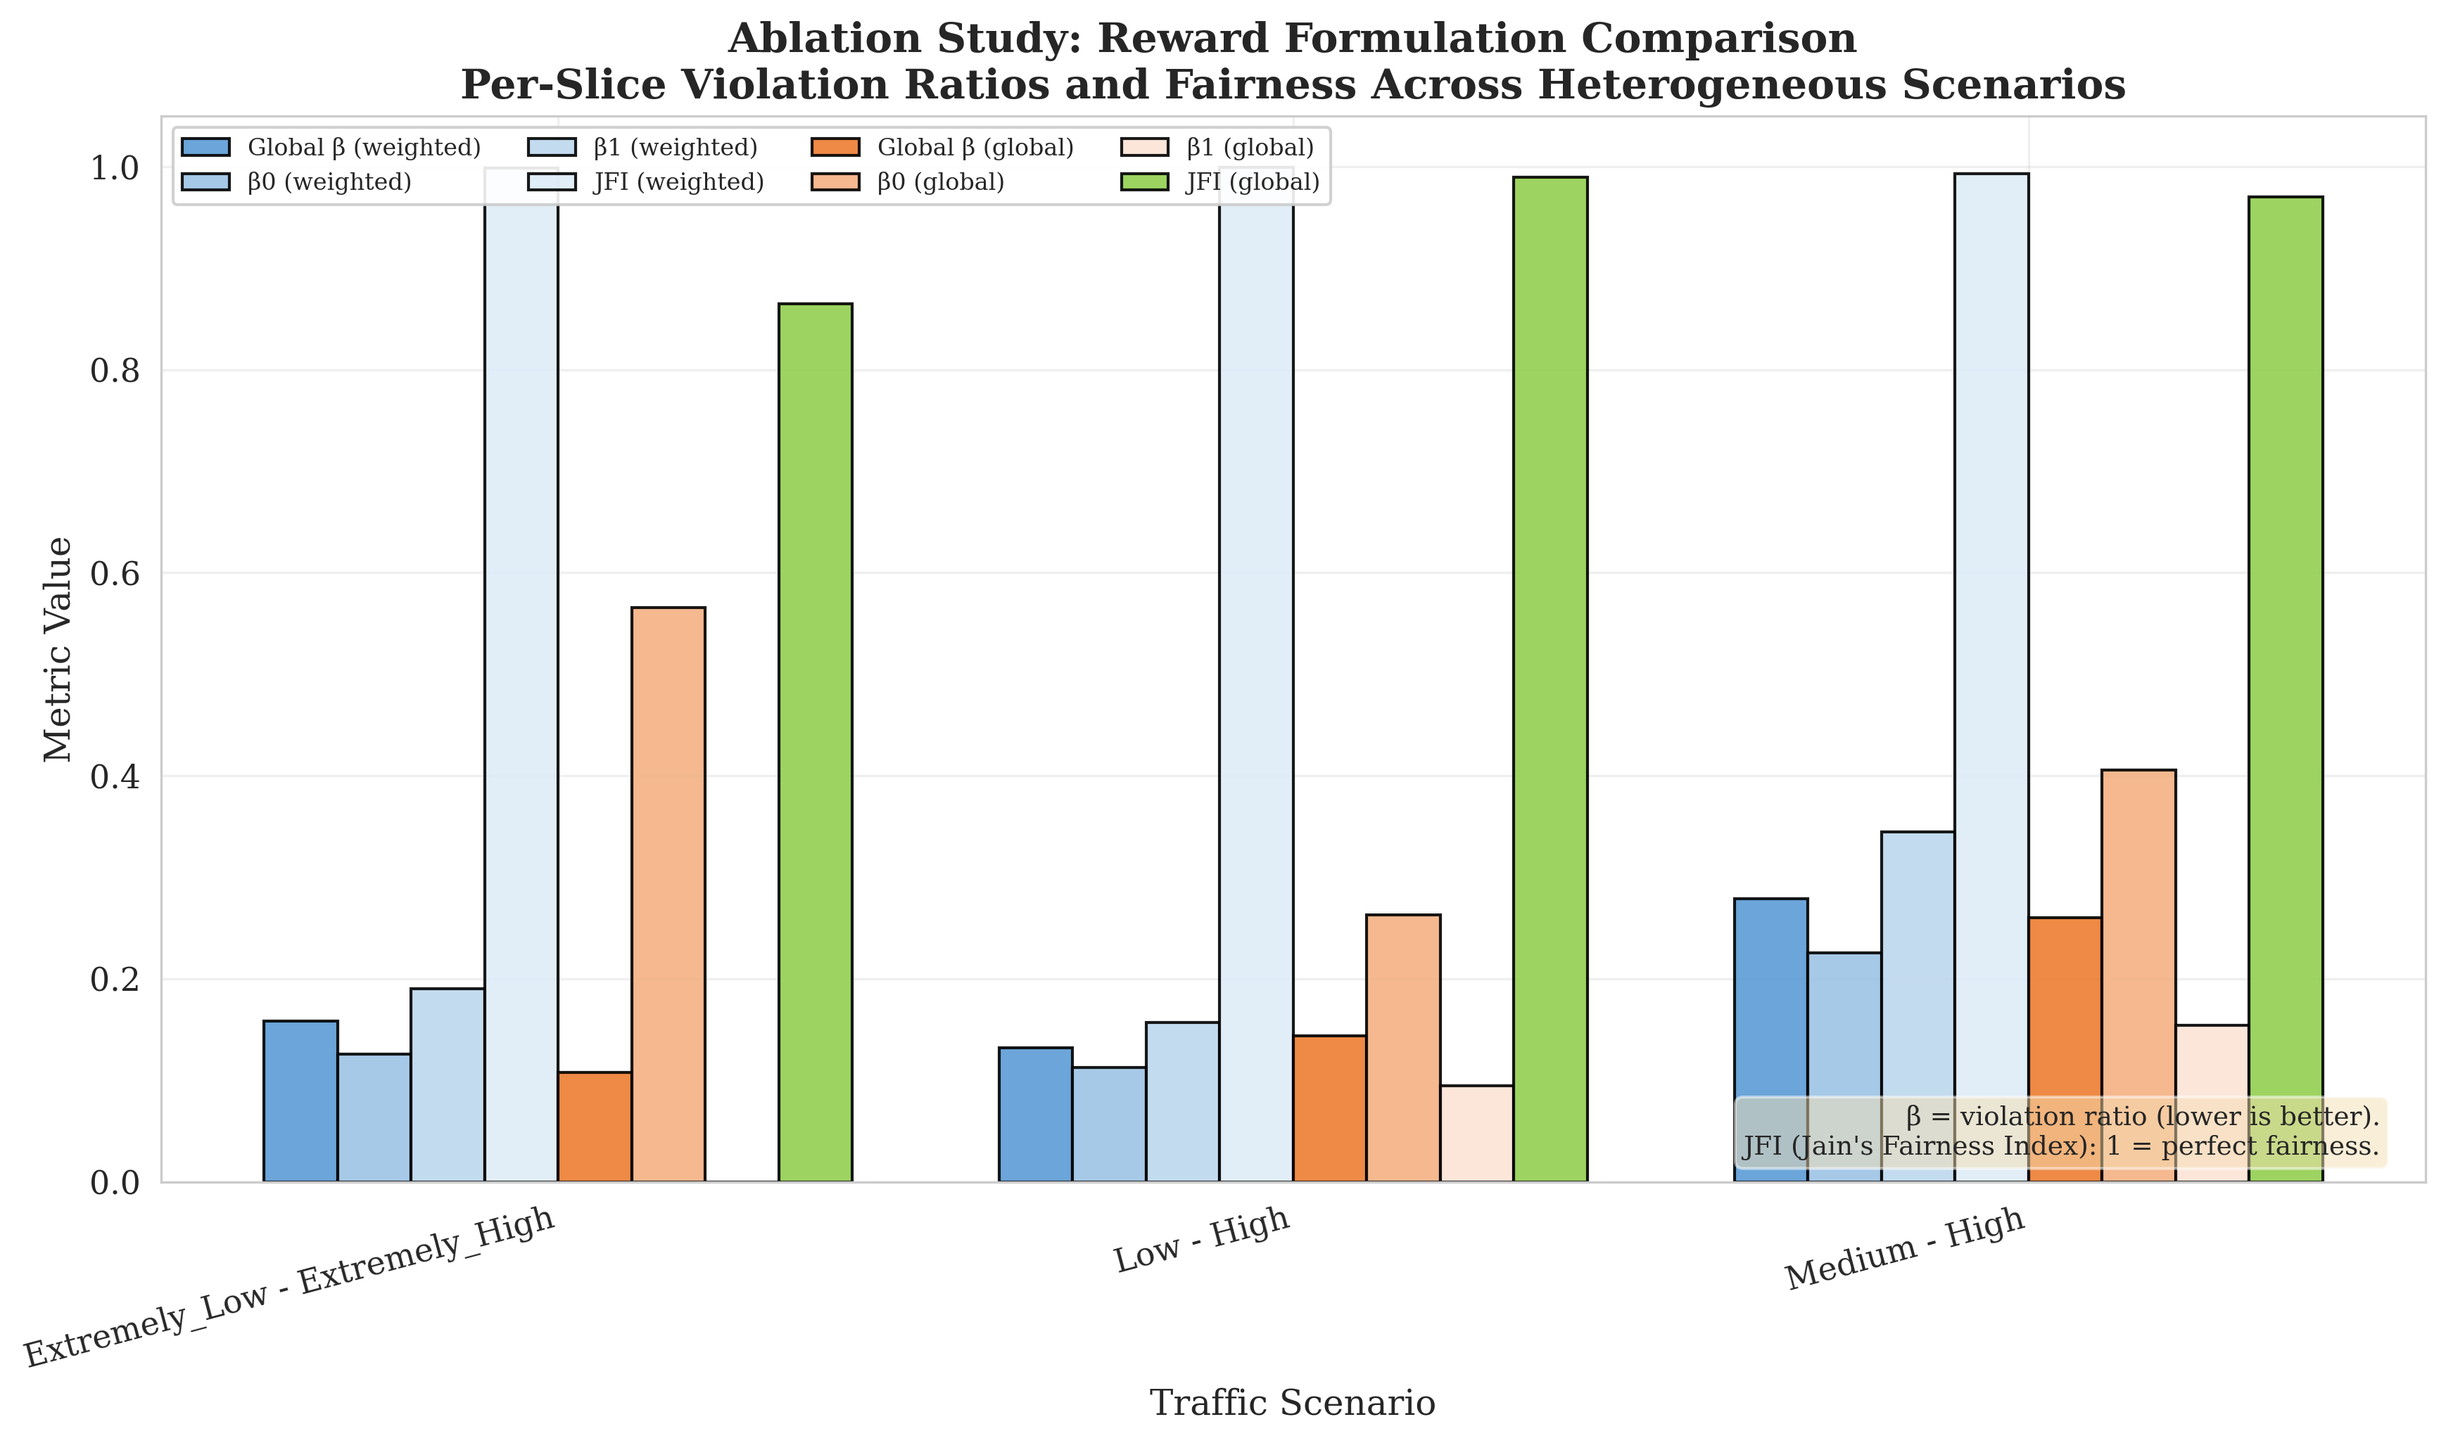
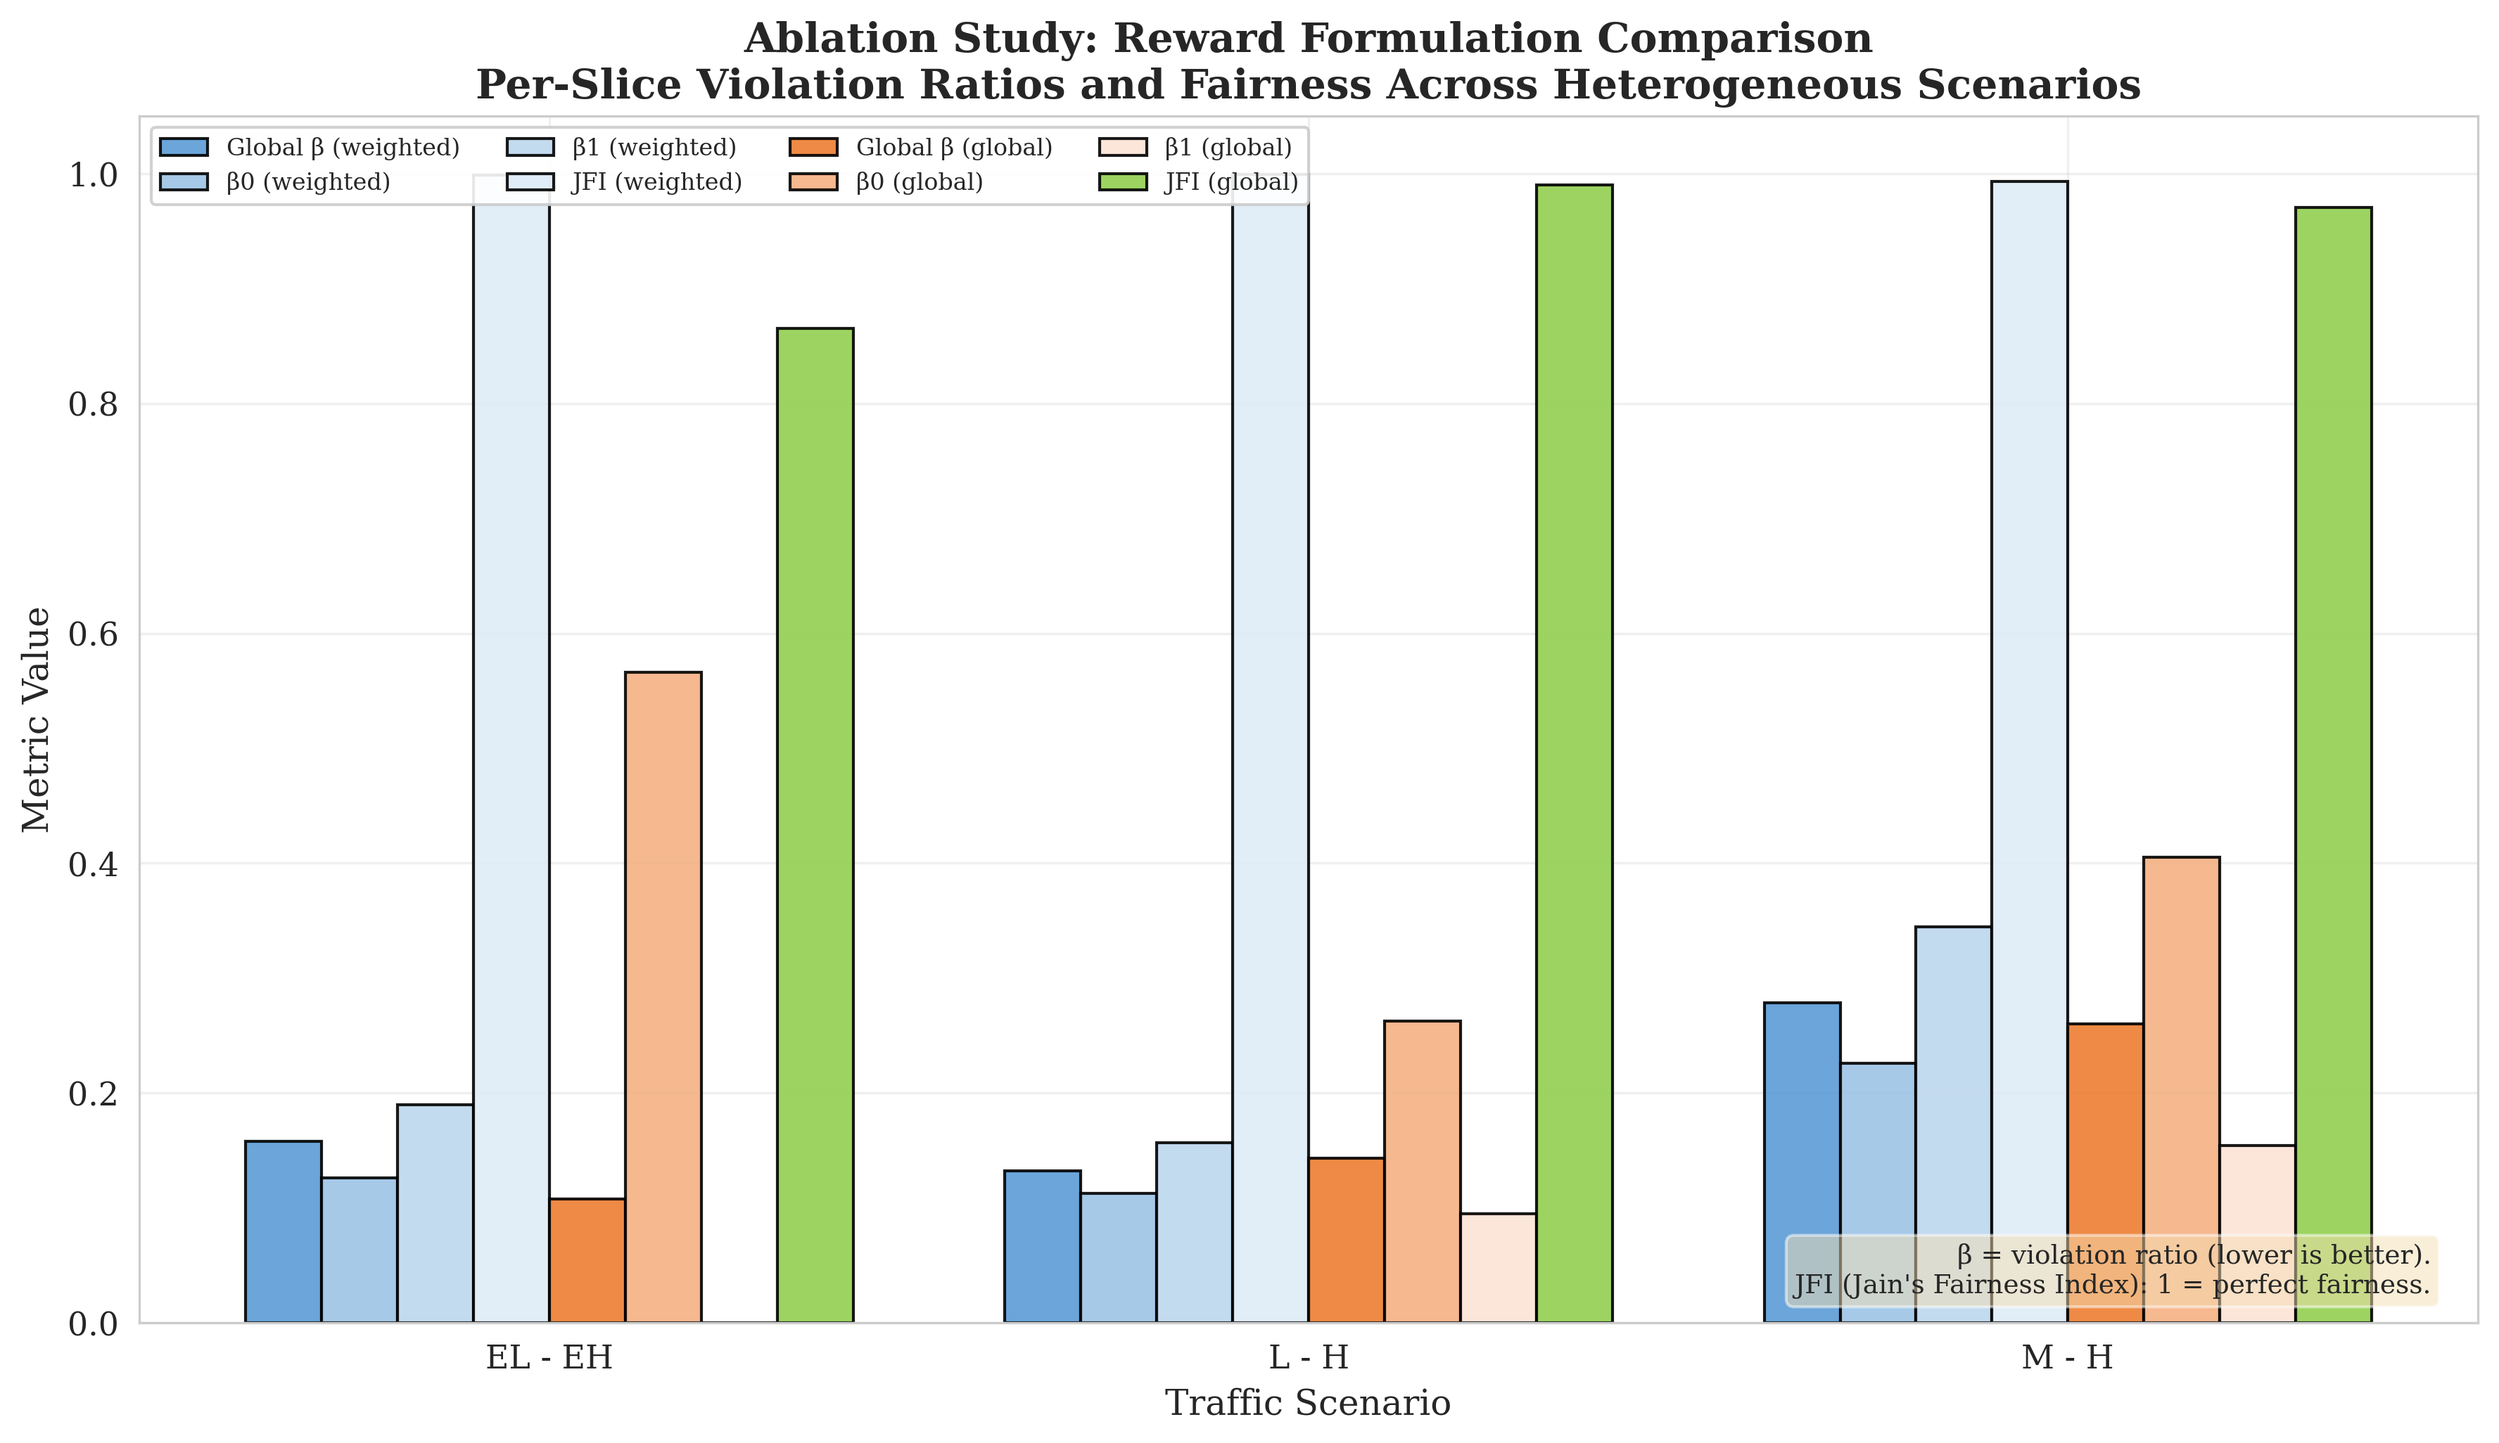
ver3.7

diff --git a/figures_dynamic.py b/figures_dynamic.py
@@ -26,6 +26,7 @@ from plot_style import (
     FIGURE_DPI, FIGURE_FORMAT,
     COLOR_BETA, LABEL_BETA, LABEL_DTI, LABEL_RBS, LABEL_EPISODE,
     abbrev_profile,
+    abbrev_scenario_str,
 )
 
 _PROFILE_NAMES = {
@@ -321,37 +322,67 @@ def _fig5_continuous_beta(data, output_dir, episode, label):
 # ---------------------------------------------------------------------------
 
 def fig_actor_loss_comparison(experiments, output_dir):
-    """Training actor loss comparison: one heterogeneous + one dynamic experiment."""
+    """
+    Training actor loss comparison between two dynamic experiments with
+    different profile pools (e.g. [L,M,H] vs [EL,L,M,H,EH]).
+
+    Falls back to any two experiments with actor loss data if fewer than
+    two dynamic runs are available.
+    """
     print("\n[Figure] Actor Loss Comparison...")
 
+    # Prefer dynamic experiments; pick one per distinct pool size
+    dynamic_with_loss = [
+        e for e in experiments
+        if e['category'] == 'dynamic'
+        and 'episode_actor_loss' in e.get('data', {})
+    ]
+
+    seen_pool_sizes = {}
     to_plot = []
-    for exp in experiments:
-        if exp['category'] == 'static_heterogeneous' and len(to_plot) == 0:
-            if 'episode_actor_loss' in exp.get('data', {}):
-                to_plot.append(('Heterogeneous', exp, '#e41a1c'))
-        elif exp['category'] == 'dynamic' and len(to_plot) <= 1:
-            if 'episode_actor_loss' in exp.get('data', {}):
-                to_plot.append(('Dynamic', exp, '#377eb8'))
+    for exp in dynamic_with_loss:
+        pool_size = len(exp.get('dynamic_profile_set', []))
+        if pool_size not in seen_pool_sizes:
+            seen_pool_sizes[pool_size] = exp
+            pool = exp.get('dynamic_profile_set', [])
+            label = f"Dynamic [{abbrev_profile(pool)}]" if pool else exp['scenario_str']
+            to_plot.append((label, exp))
         if len(to_plot) == 2:
             break
+
+    # If we couldn't find two distinct dynamic pools, fall back to any two experiments
+    if len(to_plot) < 2:
+        for exp in experiments:
+            if exp in [t[1] for t in to_plot]:
+                continue
+            if 'episode_actor_loss' in exp.get('data', {}):
+                pool = exp.get('dynamic_profile_set', [])
+                if pool:
+                    label = f"[{abbrev_profile(pool)}]"
+                else:
+                    label = f"{exp['category'].title()} ({abbrev_scenario_str(exp['scenario_str'])})"
+                to_plot.append((label, exp))
+            if len(to_plot) == 2:
+                break
 
     if not to_plot:
         print("  ⚠  No actor loss data available")
         return
 
+    # Clearly distinct colors: orange and dark green
+    colors = ['#d95f02', '#1b7837']
+
     fig, ax = plt.subplots(figsize=(10, 6))
-    for label, exp, color in to_plot:
-        steps = np.array(exp['data']['episode_actor_loss']['steps'])
+    for (label, exp), color in zip(to_plot, colors):
+        steps  = np.array(exp['data']['episode_actor_loss']['steps'])
         values = np.array(exp['data']['episode_actor_loss']['values'])
-        ax.plot(steps, values, alpha=0.3, color=color, linewidth=0.5)
+        ax.plot(steps, values, alpha=0.25, color=color, linewidth=0.8)
         if len(values) >= 50:
             window = min(50, len(values) // 2)
             ma = np.convolve(values, np.ones(window) / window, mode='valid')
-            ax.plot(steps[window - 1:], ma, color=color, linewidth=2,
-                    label=f'{label} ({exp["scenario_str"]})')
+            ax.plot(steps[window - 1:], ma, color=color, linewidth=2, label=label)
         else:
-            ax.plot(steps, values, color=color, linewidth=2,
-                    label=f'{label} ({exp["scenario_str"]})')
+            ax.plot(steps, values, color=color, linewidth=2, label=label)
 
     ax.set_xlabel(LABEL_EPISODE)
     ax.set_ylabel('Actor Loss')
@@ -753,7 +784,7 @@ def fig_ablation_reward_formulation_robust(experiments, output_dir, ablation_map
                  'Per-Slice Violation Ratios and Fairness Across Heterogeneous Scenarios',
                  fontsize=14, fontweight='bold')
     ax.set_xticks(x)
-    ax.set_xticklabels(scenario_names, rotation=15, ha='right')
+    ax.set_xticklabels([abbrev_scenario_str(s) for s in scenario_names])
     ax.legend(loc='upper left', fontsize=8, ncol=n_rtypes * 2, framealpha=0.9)
     ax.grid(True, alpha=0.3, axis='y')
     ax.set_ylim([0, 1.05])
